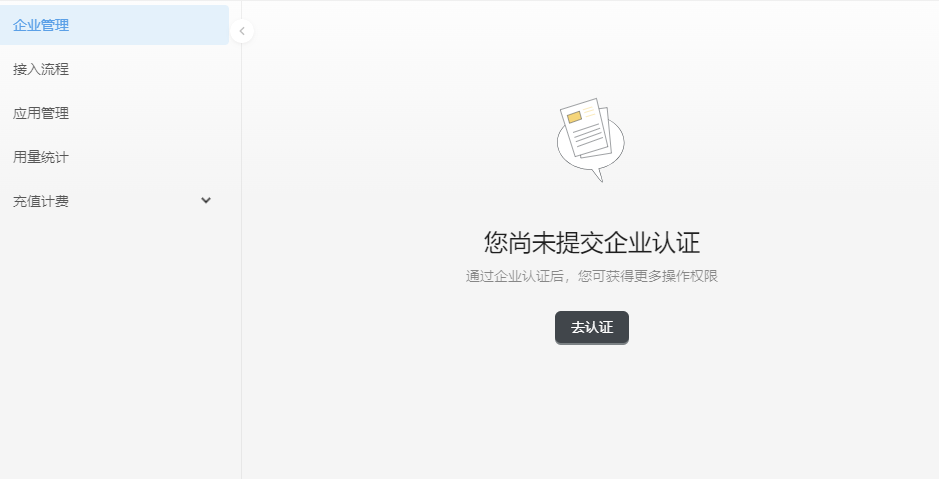
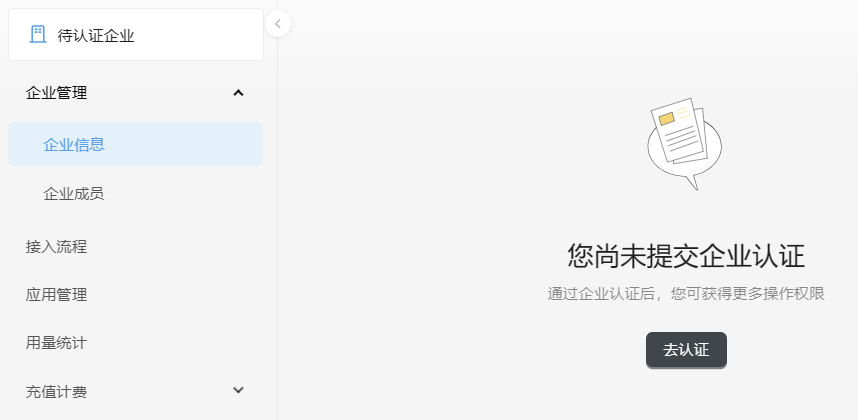
企业管理和工单功能

diff --git a/co/userguide/work-order-service.md b/co/userguide/work-order-service.md
@@ -1,0 +1,52 @@
+---
+title: 工单管理
+description: 如何提交工单、查看工单，跟进工单进展？
+keywords: [石墨文档, 文档中台, 协同办公, 在线文档, 技术工单, 工单服务]
+sidebar_position: 3
+---
+
+技术工单主要用于记录、处理和跟踪一项工作的完成情况。客户可以将使用石墨文档过程中遇到的问题通过工单提出，石墨售后和产研团队接入处理、反馈进度、闭环问题，提升服务质量，减少资源浪费。
+
+## 工单流程图
+
+## 工单操作指导
+
+### 前置条件
+
+- 已购买并部署私有化产品
+- 已购买技术工单服务
+- 登录石墨开放服务平台，完成  [企业认证](./../userguide/enterprise-management.md)
+
+### 操作步骤
+
+**步骤1：**单击页面右上角【私有化部署】下拉框，选择【服务台】。
+:::info 提示
+
+如果已完成企业认证，则进入下一个环节。如果未进行企业认证，则需要先完成 [企业认证](./../userguide/enterprise-management.md)。
+
+:::
+
+**步骤2：**在私有化部署服务台导航栏，单击【提交工单】，根据页面信息完成工单填写。
+
+- 工单标题：简单描述遇到的问题。
+- 优先级：在下拉框中选择优先级，优先级由高到低排列是 P0 > P1 > P2 > P3。
+  - 紧急情况（P0）：阻碍用户使用石墨产品功能、严重影响用户体验、发生用户数据丢失、用户数据错乱、用户数据无法显示、高危安全问题。
+  - 高级影响（P1）：用户可以使用产品功能，但结果与预期有明显不符、与交互设计有可明显感知的差别、严重的性能问题和安全问题。
+  - 中级影响（P2）：功能可使用但与预期结果有部分不符、功能在可正确实现预期功能之外的其他问题、一般安全问题。
+  - 低级影响（P3）：对用户使用产品仅有轻微影响。
+- 产品类型：选择已购买的私有化产品。
+- 产品线：选择想咨询的产品套件。
+- 问题描述：建议详细描述问题，包括但不限于产品版本、操作内容、导致的结果，能否复现等，还可以添加图片或录屏，方便石墨产研团队定位。
+
+![work-order1](./../image/userguide/work-order1.png)
+
+**步骤3：**勾选服务协议后，单击【提交】按钮，完成工单填写。
+
+**步骤4：**在私有化部署服务台导航栏，单击【工单记录】，可以查询已提交的工单列表和信息，还可以通过工单标题、日期等筛选工单。
+
+![work-order2](./../image/userguide/work-order2.png)
+
+- 工单留言：在工单详情页，**工单创建者**可补充问题相关信息（例如使用场景、操作日志、问题详情等）和添加附件（每次允许上传3个小于25M的附件），便于快速定位并解决问题。
+- 删除工单：执行此操作后，工单数据完全被删除，无法在工单列表中查询对应数据，请谨慎操作。
+- 关闭工单：执行此操作后，石墨产研团队则不再跟进处理，对应的工单信息仍然可以在工单列表中查询。
+- 重开工单：对于已完成的工单，如果发现问题并未解决时，**工单创建者**可重开工单继续咨询。

diff --git a/co/userguide/enterprise-management.md b/co/userguide/enterprise-management.md
@@ -2,7 +2,7 @@
 title: 企业管理
 description: 如何申请企业认证、修改认证信息及查询认证进展。
 keywords: [石墨文档, 文档中台, 协同办公, 在线文档, 文件共享, 企业认证]
-sidebar_position: 3
+sidebar_position: 2
 ---
 
 企业管理功能包括企业信息查询和企业成员管理，提供了企业认证入口、企业信息查看/修改、添加企业管理员的能力。
@@ -16,13 +16,13 @@ sidebar_position: 3
 
 :::
 
-![enterprise-certification1](./../image/enterprise-certification1.png)
+![enterprise-certification1](./../image/userguide/enterprise-certification1.png)
 
-![enterprise-certification2](./../image/enterprise-certification2.png)
+![enterprise-certification2](./../image/userguide/enterprise-certification2.png)
 
 企业认证通过的用户，可查看认证信息并修改联系方式。
 
-![enterprise-certification3](./../image/enterprise-certification3.png)
+![enterprise-certification3](./../image/userguide/enterprise-certification3.png)
 
 ## 企业成员
 
@@ -37,7 +37,7 @@ sidebar_position: 3
 
 :::
 
-![enterprise-certification4](./../image/enterprise-certification4.png)
+![enterprise-certification4](./../image/userguide/enterprise-certification4.png)
 
 ### 人员列表
 
@@ -67,7 +67,7 @@ sidebar_position: 3
 
 对于单用户归属多企业的场景，支持企业查看和切换功能。
 
-![enterprise-change](./../image/enterprise-change.png)
+![enterprise-change](./../image/userguide/enterprise-change.png)
 
 **我创建的企业**
 

diff --git a/co/userguide/overview.md b/co/userguide/overview.md
@@ -1,0 +1,11 @@
+---
+title: 概述
+description: 介绍私有化部署服务台的。
+keywords: [石墨文档, 文档中台, 协同办公, 在线文档, 私有化部署, 技术工单]
+sidebar_position: 1
+---
+
+私有化部署方案是指将石墨文档全系套件与整体服务部署在企业自有服务器，支持公有云，私有云与自有机房。在企业数据自主掌控的前提下，使用石墨办公套件（文档、传统文档、表格、幻灯片等），并支持通过 API 与现有系统打通，让现有系统与石墨办公套件高效链接，构建企业内部的文档协同基础设施。
+
+私有化部署服务台主要为私有化客户提供技术工单服务，给客户打造一个高效的沟通渠道。
+

diff --git a/co/awesome/open-telemetry.md b/co/awesome/open-telemetry.md
@@ -13,7 +13,7 @@ sidebar_position: 3
 
 ## 对接流程
 
-1. 接入方将 Open Telemetry Collector（简称 OTel Collector）部署到服务器，详细操作请参考 [Open Telemetry 官网](#https://opentelemetry.io/docs/)。
+1. 接入方将 Open Telemetry Collector（简称 OTel Collector）部署到服务器，详细操作请参考 [Open Telemetry 官网](https://opentelemetry.io/docs/)。
 
    ![open-telemetry.png](../image/awesome/open-telemetry.png)
 
